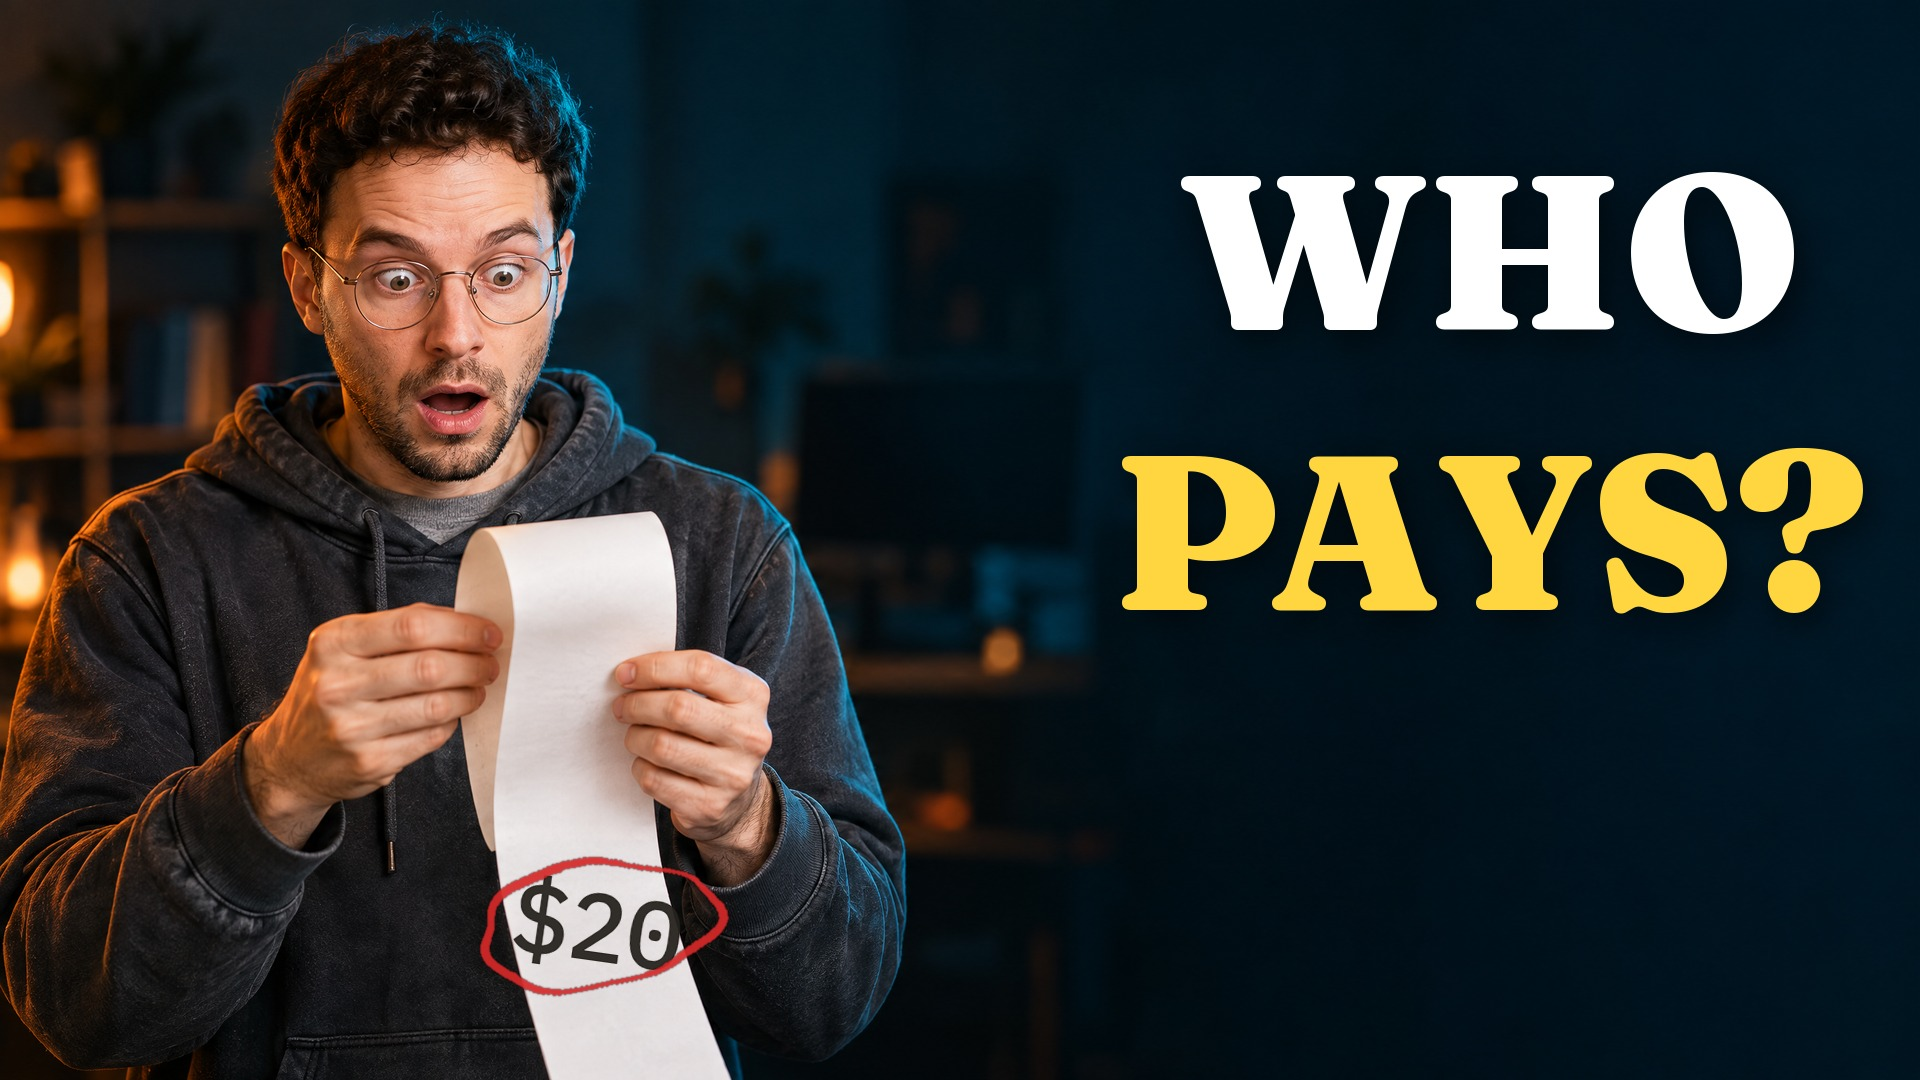
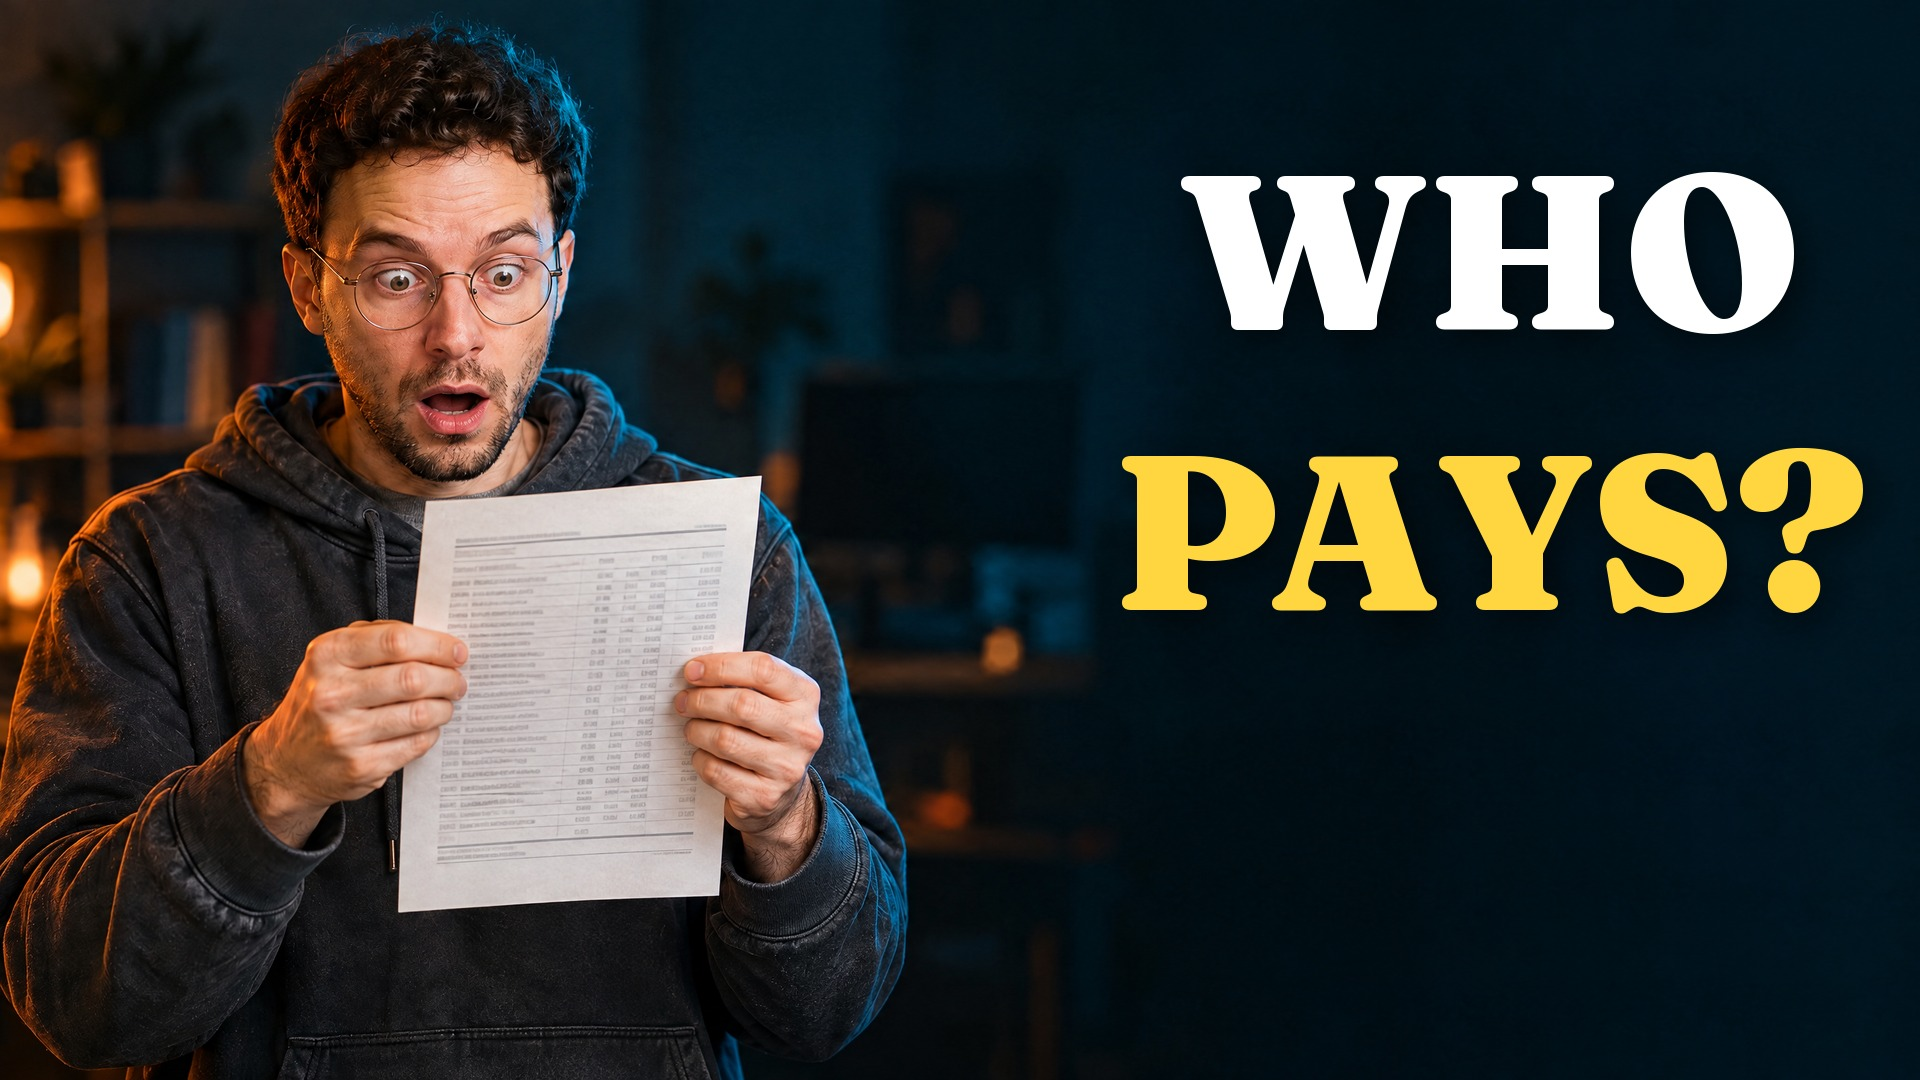
Thumbnail 1: A4 bill instead of the receipt, no $20 overlay
Claude-Session: https://claude.ai/code/session_01WWWBFRAWHMeYXPWe5Vuw7t

diff --git a/remotion/src/twentylie/thumbnails/make_thumbs.py b/remotion/src/twentylie/thumbnails/make_thumbs.py
@@ -69,13 +69,8 @@ def save(img, n):
     return out
 
 
-# 1. Receipt shock: "$20" on the receipt, circled in red marker. Hook: WHO PAYS?
-im = plate(1).convert("RGBA")
-rec = Image.new("RGBA", (300, 150), (0, 0, 0, 0))
-ImageDraw.Draw(rec).text((150, 75), "$20", font=font(MONO, 96), fill=(38, 34, 30, 240), anchor="mm")
-rec = rec.rotate(-8, resample=Image.BICUBIC, expand=True)
-im.alpha_composite(rec, (int(598 - rec.width / 2), int(925 - rec.height / 2)))
-marker_loop(im, 598, 925, 118, 62, width=10, seed=5, tilt=-8)
+# 1. Bill shock: he stares at an A4 bill (no numbers on it). Hook: WHO PAYS?
+im = Image.open(os.path.join(HERE, "raw", "T1b.png")).convert("RGB").resize((W, H), Image.LANCZOS).convert("RGBA")  # A4 bill version
 f_big = fit(FRAUNCES, "PAYS?", 760, 300)
 shadow_text(im, (1490, 330), "WHO", f_big, (255, 255, 255), anchor="ms")
 shadow_text(im, (1490, 610), "PAYS?", f_big, (255, 214, 64), anchor="ms")
